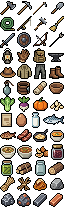
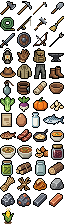
Add corn as a third crop with SpriteCook art
Corn unlocks at Farming 2, grows in 8 days and yields 2 ears. Crop kinds
now carry their unlock level and pack key, so seed switching, planting,
harvesting and crop spending loop over CROPS. The stand sells corn seeds
and buys corn, and capture.gd can plant crop stages for screenshots.

diff --git a/DESIGN.md b/DESIGN.md
@@ -232,10 +232,12 @@ Achievements track stats and never reset. Each pays a small reward. Earning all 
 
 ## Farming and crops
 
-- Two crop kinds:
-  - **Turnip** (starter): yields 1 crop and 1 seed back. 25 XP.
-  - **Pumpkin** (Farming 3): yields 3 crops and 1 pumpkin seed back. 40 XP.
-- Planting uses the **selected seed**. Switch it in the Inventory panel (Farming 3 and up). If you pick pumpkin before Farming 3, turnip is planted.
+- Three crop kinds:
+  - **Turnip** (starter): yields 1 crop and 1 seed back. 25 XP. 7 days. Sells for 8.
+  - **Corn** (Farming 2): yields 2 ears and 1 corn seed back. 30 XP. 8 days. Sells for 14. Seeds are 6 coins each, sold 4 at a time. Corn is food and animal feed like the other crops, but has no recipes and doesn't keep in the cellar. Art: `art/farm/crop_corn.png` (SpriteCook, four 16 px stages); its ripe frame is the corn icon in `art/ui/icons.png`.
+  - **Pumpkin** (Farming 3): yields 3 crops and 1 pumpkin seed back. 40 XP. 10 days. Sells for 30.
+- Planting uses the **selected seed**. Switch it in the Inventory panel once a second kind is unlocked; it steps through the unlocked kinds. If the selected kind isn't unlocked yet, turnip is planted.
+- Feeding animals, offerings and Harrow's crops take turnips first, then corn, then pumpkins.
 - Planting gives 5 XP.
 - **Crops need water.** A crop grows overnight only if it was watered that day. A crop that wasn't watered stays at its stage, and the morning message says how many went thirsty. Watering is covered under Well and watering.
 - Plot two stays overgrown until Farming 2. Walking up to it says so.
